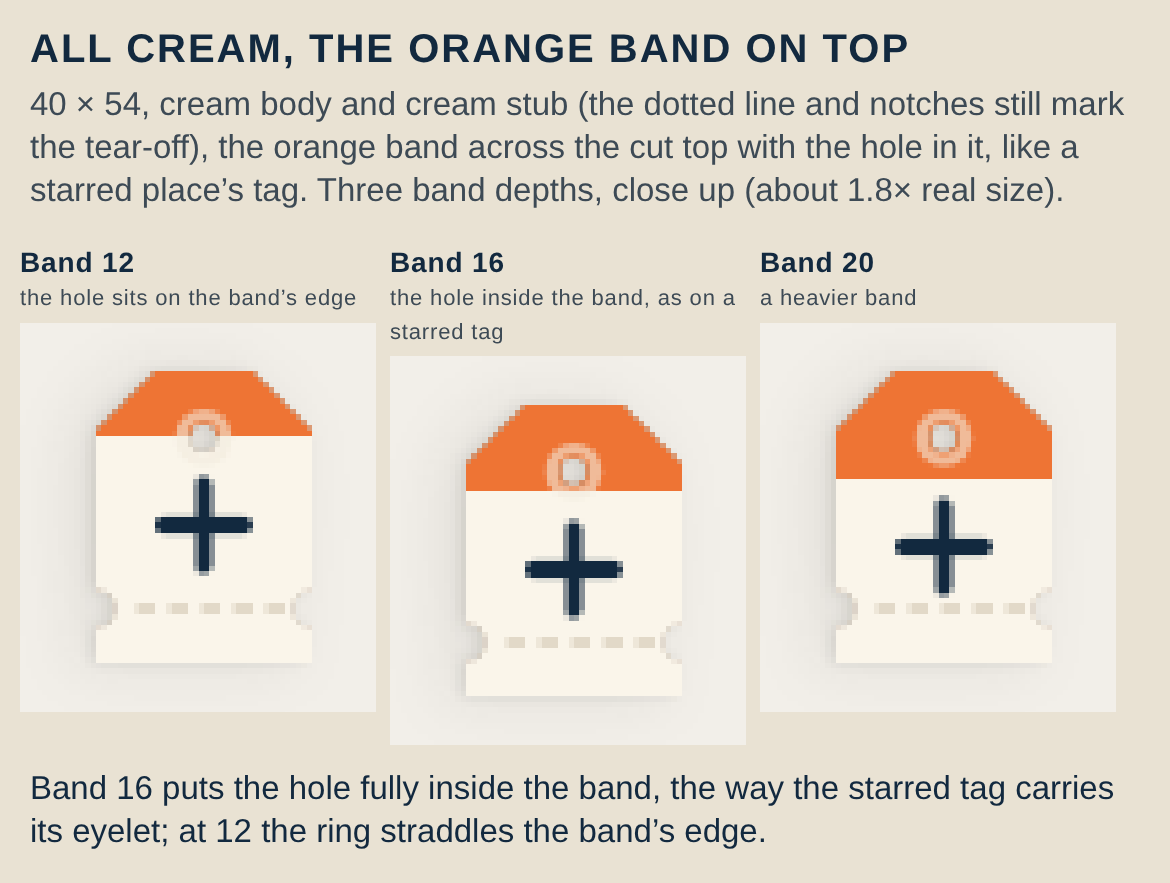
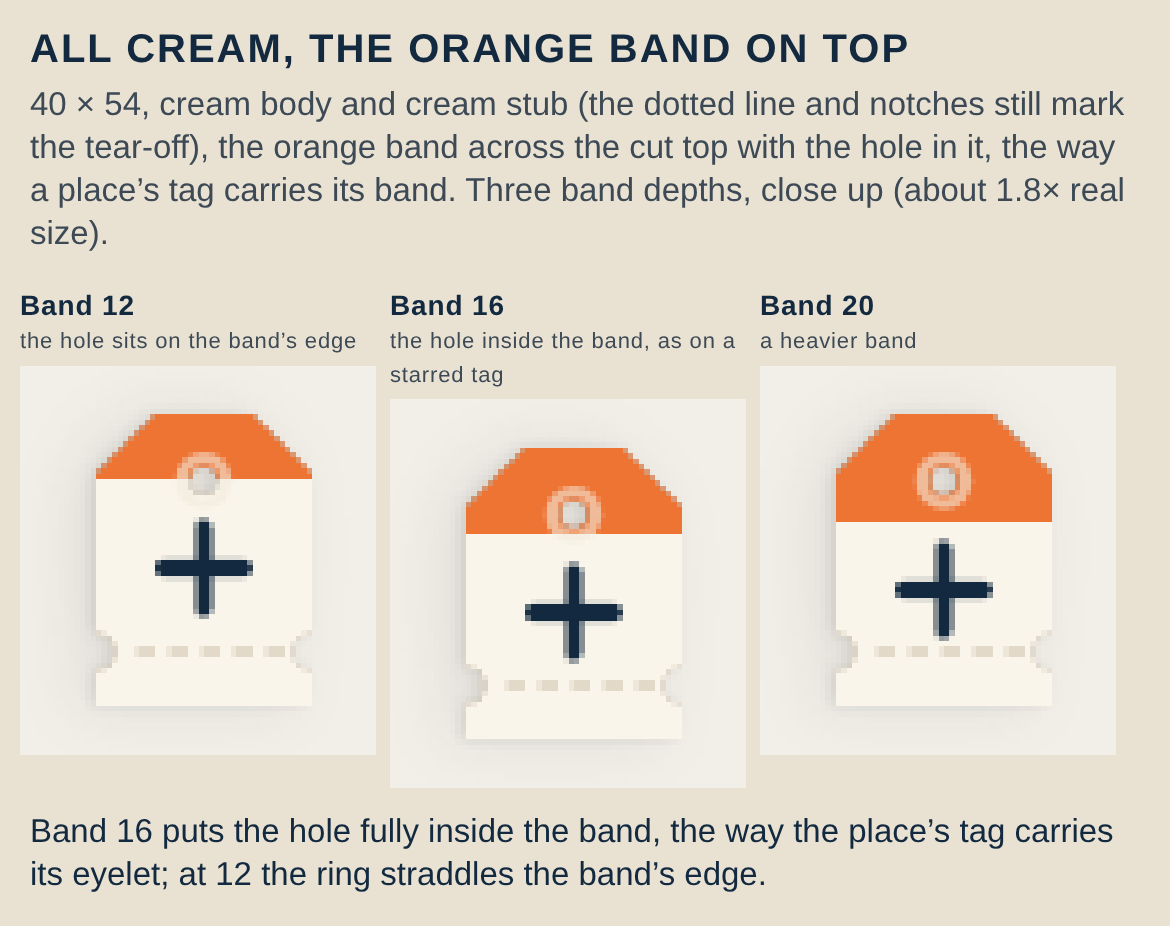
+ placement: B stills reframed (visual)

diff --git a/design/add-button-placement/concepts/blank-tag-form/compose.js b/design/add-button-placement/concepts/blank-tag-form/compose.js
@@ -225,13 +225,13 @@ const pages = {
   [R11 + 'P2-proportion-real-size-3x.png']: `${cap('At real size, beside the account badge', 'As your phone shows them: the account badge, then 36 wide with a 3px end, 36 with the cream stub, and 40 with the cream stub. Height 54 in all three.')}
      <div class="row" style="padding:0 30px;gap:24px;align-items:flex-end">${col('Account', crop1(f('r11p-real-36-e3-1x'), 316, 10, 384, 74, 3), 204)}${col('36, end 3', crop1(f('r11p-real-36-e3-1x'), 6, 458, 66, 527, 3), 180)}${col('36, cream stub', crop1(f('r11p-real-36-stub-1x'), 6, 458, 66, 527, 3), 180)}${col('40, cream stub', crop1(f('r11p-real-40-stub-1x'), 6, 458, 70, 527, 3), 192)}</div><div class="gap"></div>`,
   // ================= ROUND 11e: all cream, the orange band at the top =================
-  [R11 + 'B1-band-close-up-3x.png']: `${cap('All cream, the orange band on top', '40 × 54, cream body and cream stub (the dotted line and notches still mark the tear-off), the orange band across the cut top with the hole in it, like a starred place’s tag. Three band depths, close up (about 1.8× real size).')}
+  [R11 + 'B1-band-close-up-3x.png']: `${cap('All cream, the orange band on top', '40 × 54, cream body and cream stub (the dotted line and notches still mark the tear-off), the orange band across the cut top with the hole in it, the way a place’s tag carries its band. Three band depths, close up (about 1.8× real size).')}
      <div class="row" style="padding:0 20px;gap:14px">${col('Band 12<br><span style="font-weight:400;font-size:22px;color:#3d4a55">the hole sits on the band’s edge</span>', crop1(f('r11b-40-b12-1x'), 6, 455, 72, 527, 5.4), 356)}${col('Band 16<br><span style="font-weight:400;font-size:22px;color:#3d4a55">the hole inside the band, as on a starred tag</span>', crop1(f('r11b-40-b16-1x'), 6, 455, 72, 527, 5.4), 356)}${col('Band 20<br><span style="font-weight:400;font-size:22px;color:#3d4a55">a heavier band</span>', crop1(f('r11b-40-b20-1x'), 6, 455, 72, 527, 5.4), 356)}</div>
-     ${note('Band 16 puts the hole fully inside the band, the way the starred tag carries its eyelet; at 12 the ring straddles the band’s edge.')}`,
+     ${note('Band 16 puts the hole fully inside the band, the way the place’s tag carries its eyelet; at 12 the ring straddles the band’s edge.')}`,
   [R11 + 'B2-band-real-size-3x.png']: `${cap('At real size, beside the account badge', 'As your phone shows them.')}
      <div class="row" style="padding:0 30px;gap:24px;align-items:flex-end">${col('Account', crop1(f('r11b-40-b16-1x'), 316, 10, 384, 74, 3), 204)}${col('Band 12', crop1(f('r11b-40-b12-1x'), 8, 458, 70, 527, 3), 186)}${col('Band 16', crop1(f('r11b-40-b16-1x'), 8, 458, 70, 527, 3), 186)}${col('Band 20', crop1(f('r11b-40-b20-1x'), 8, 458, 70, 527, 3), 186)}</div><div class="gap"></div>`,
-  [R11 + 'B3-band-vs-starred-3x.png']: `${cap('Beside a starred place (390 × 664)', 'A starred place’s tag is open, with its orange band, and starred pins carry an orange star. The + (bottom-left, band 16) uses the same band. Judge for yourself whether it reads as “starred”.')}${full(f('r11b-40-b16-tag664'))}<div class="gap"></div>`,
-  [R11 + 'B4-band-real-size-full-3x.png']: `${cap('Band 16 on the whole screen, at real size', 'With the app’s own pins (two of them starred) and the account badge.')}
+  [R11 + 'B3-band-vs-starred-3x.png']: `${cap('The family resemblance (390 × 664)', 'A place’s tag is open above; the + (bottom-left, band 16) is the same object in small: the band across the cut top with the eyelet in it, cream paper, the dotted line and the stub.')}${full(f('r11b-40-b16-tag664'))}<div class="gap"></div>`,
+  [R11 + 'B4-band-real-size-full-3x.png']: `${cap('Band 16 on the whole screen, at real size', 'With the app’s own pins and the account badge.')}
      ${crop1(f('r11b-40-b16-1x'), 0, 0, 390, 544, 3)}<div class="gap"></div>`,
 };
 (async () => {
